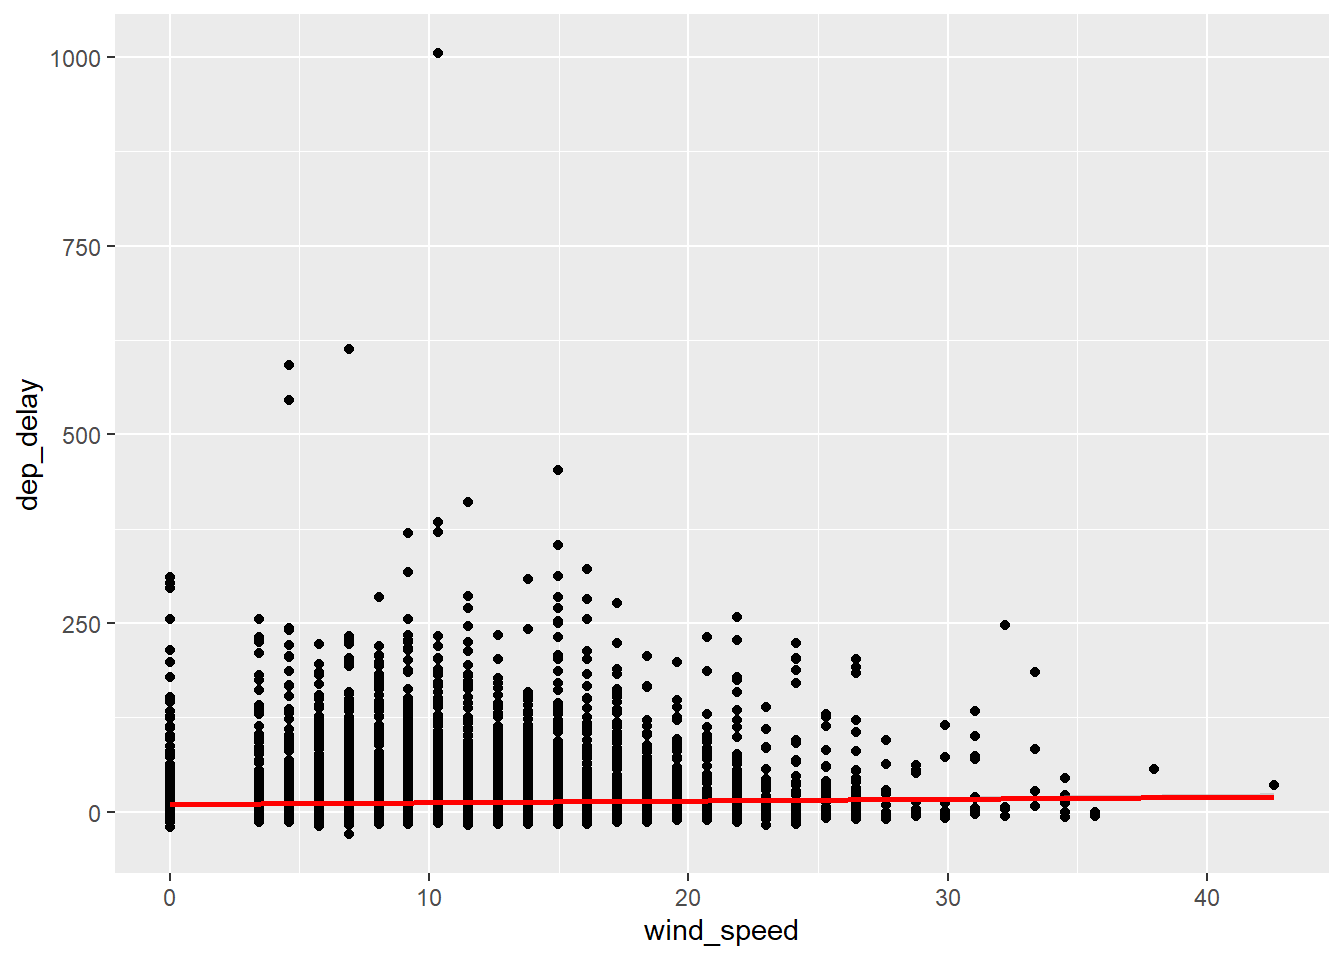
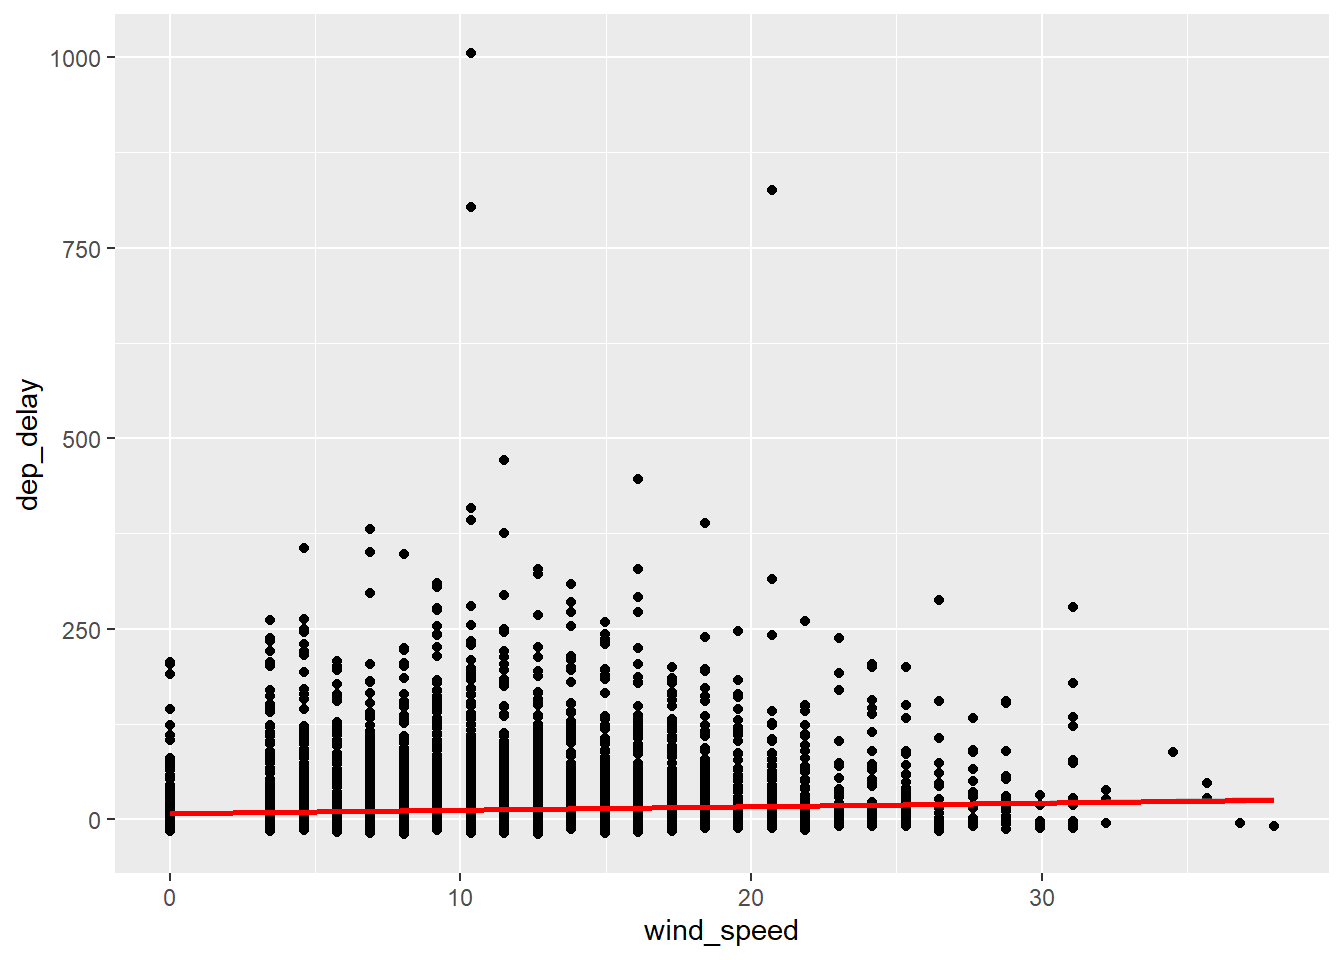
are we walkting
now we are?

diff --git a/assets/scss/custom.scss b/assets/scss/custom.scss
@@ -7,3 +7,15 @@ pre {
   white-space: pre-wrap !important;
   word-break: break-all !important;
 }
+
+pre, pre code {
+  background-color: #f5f5f5 !important;
+  border-radius: 6px !important;
+  padding: 1rem !important;
+}
+
+code {
+  background-color: #f0f0f0 !important;
+  border-radius: 3px !important;
+  padding: 0.2em 0.4em !important;
+}

diff --git a/content/others/nycflights/weather_flights_NYC.md b/content/others/nycflights/weather_flights_NYC.md
@@ -1,0 +1,118 @@
+---
+title: "Weather conditions and NYC Flights"
+output: html_document
+date: "2026-02-21"
+cms_exclude: true
+---
+
+
+
+# Generating a scatter plot of wind speed and departure delay
+
+In this document, we are working with weather data from airports in NYC and flights departing from here.
+Before we start, we need to clean the environment and load the packages we are going to use:
+
+
+``` r
+library(pacman)
+
+p_load(tidyverse,tidylog,nycflights13)
+```
+
+## Join datasets
+
+Now that we have the packages up and running, let's do a join between the dataframes weather and flights.
+Careful, it might not be trivial to do the join, let's see
+
+
+``` r
+flights_with_weather <- flights %>% left_join(weather)
+```
+
+```
+## Joining with `by = join_by(year, month, day, origin, hour, time_hour)`
+## left_join: added 9 columns (temp, dewp, humid, wind_dir, wind_speed, …)
+## > rows only in x 1,556
+## > rows only in weather ( 6,737)
+## > matched rows 335,220
+## > =========
+## > rows total 336,776
+```
+
+As tidylog informs us, we are losing 1556 observations. That's fine for the purpose of this exercise.
+Let's overwrite the \textbf{flights\_with_weather} dataframe to only give us the exact matches:
+
+
+``` r
+flights_with_weather <- flights %>% inner_join(weather)
+```
+
+```
+## Joining with `by = join_by(year, month, day, origin, hour, time_hour)`
+## inner_join: added 9 columns (temp, dewp, humid, wind_dir, wind_speed, …)
+## > rows only in x ( 1,556)
+## > rows only in weather ( 6,737)
+## > matched rows 335,220
+## > =========
+## > rows total 335,220
+```
+
+### Now we are equipped to do the ggplot scatterplot
+
+Given that we have a dataframe with the two desired columns, ggpplot() + geom$\_$point() + geom$\_$smooth() should give us what we want. Let's just select a random sample of 10k flights:
+
+
+
+``` r
+flights_with_weather %>% sample_n(10000) %>% ggplot() + 
+  geom_point(aes(x = wind_speed, y = dep_delay))
+```
+
+```
+## sample_n: removed 325,220 rows (97%), 10,000 rows remaining
+```
+
+```
+## Warning: Removed 257 rows containing missing values or values outside the scale range
+## (`geom_point()`).
+```
+
+<img src="/others/nycflights/weather_flights_NYC_files/figure-html/unnamed-chunk-4-1.png" width="672" />
+
+
+
+# Adding a regression line:
+
+
+``` r
+flights_with_weather %>% sample_n(10000) %>% ggplot() + 
+  geom_point(aes(x = wind_speed, y = dep_delay)) + 
+  geom_smooth(aes(x = wind_speed, y = dep_delay), method = "lm", color = "red")
+```
+
+```
+## sample_n: removed 325,220 rows (97%), 10,000 rows remaining
+## `geom_smooth()` using formula = 'y ~ x'
+```
+
+```
+## Warning: Removed 277 rows containing non-finite outside the scale range
+## (`stat_smooth()`).
+```
+
+```
+## Warning: Removed 277 rows containing missing values or values outside the scale range
+## (`geom_point()`).
+```
+
+<img src="/others/nycflights/weather_flights_NYC_files/figure-html/unnamed-chunk-5-1.png" width="672" />
+
+
+
+
+
+
+
+
+
+
